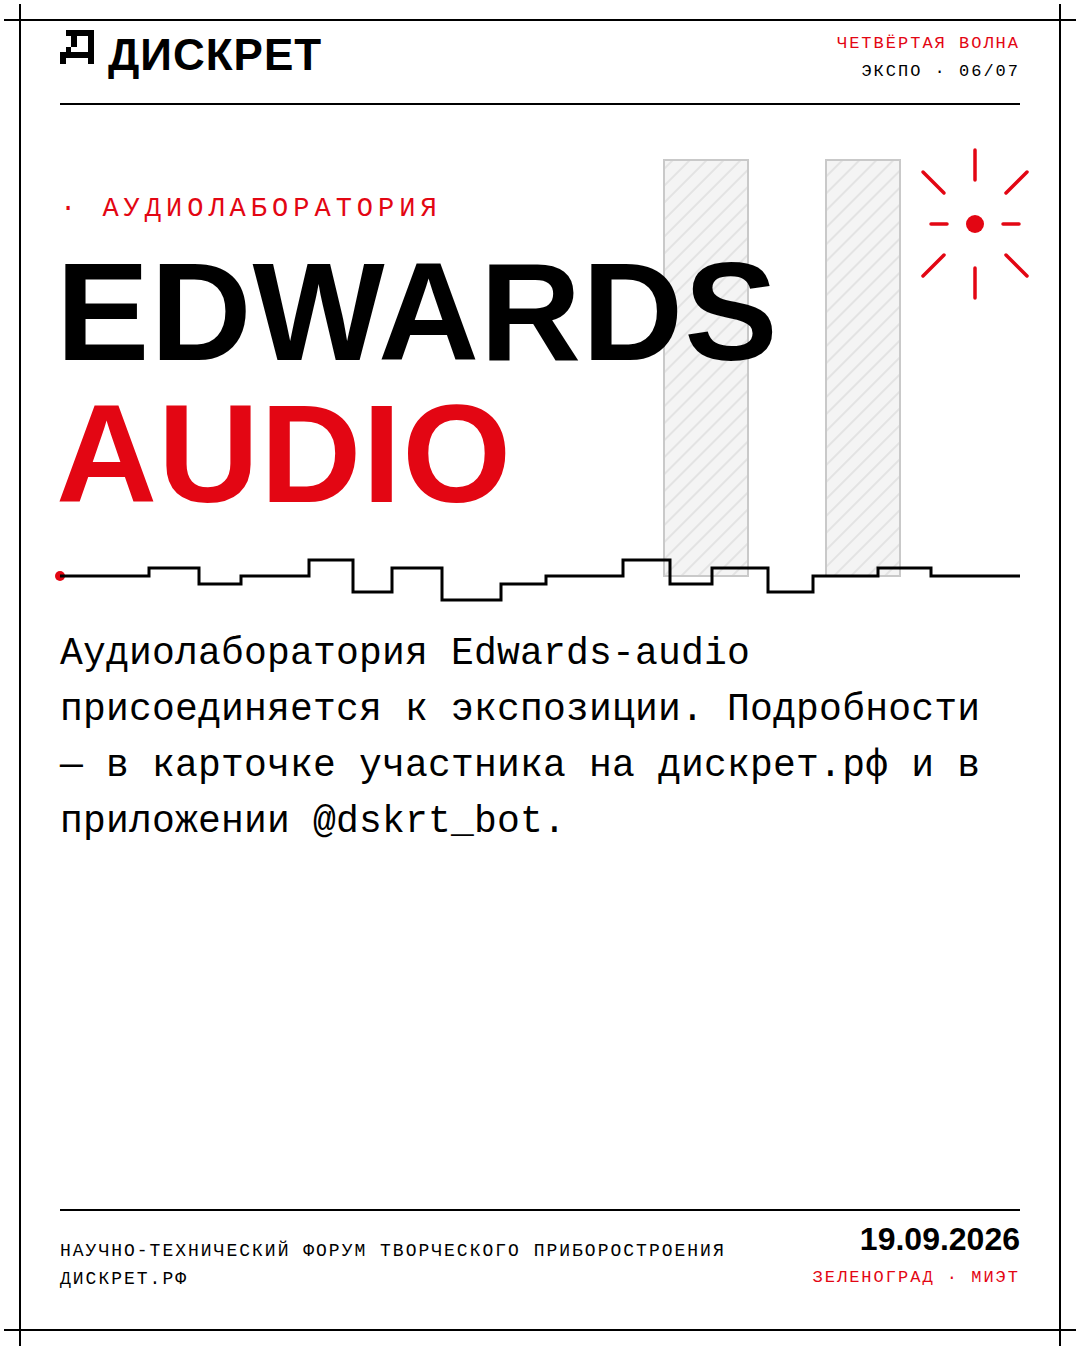
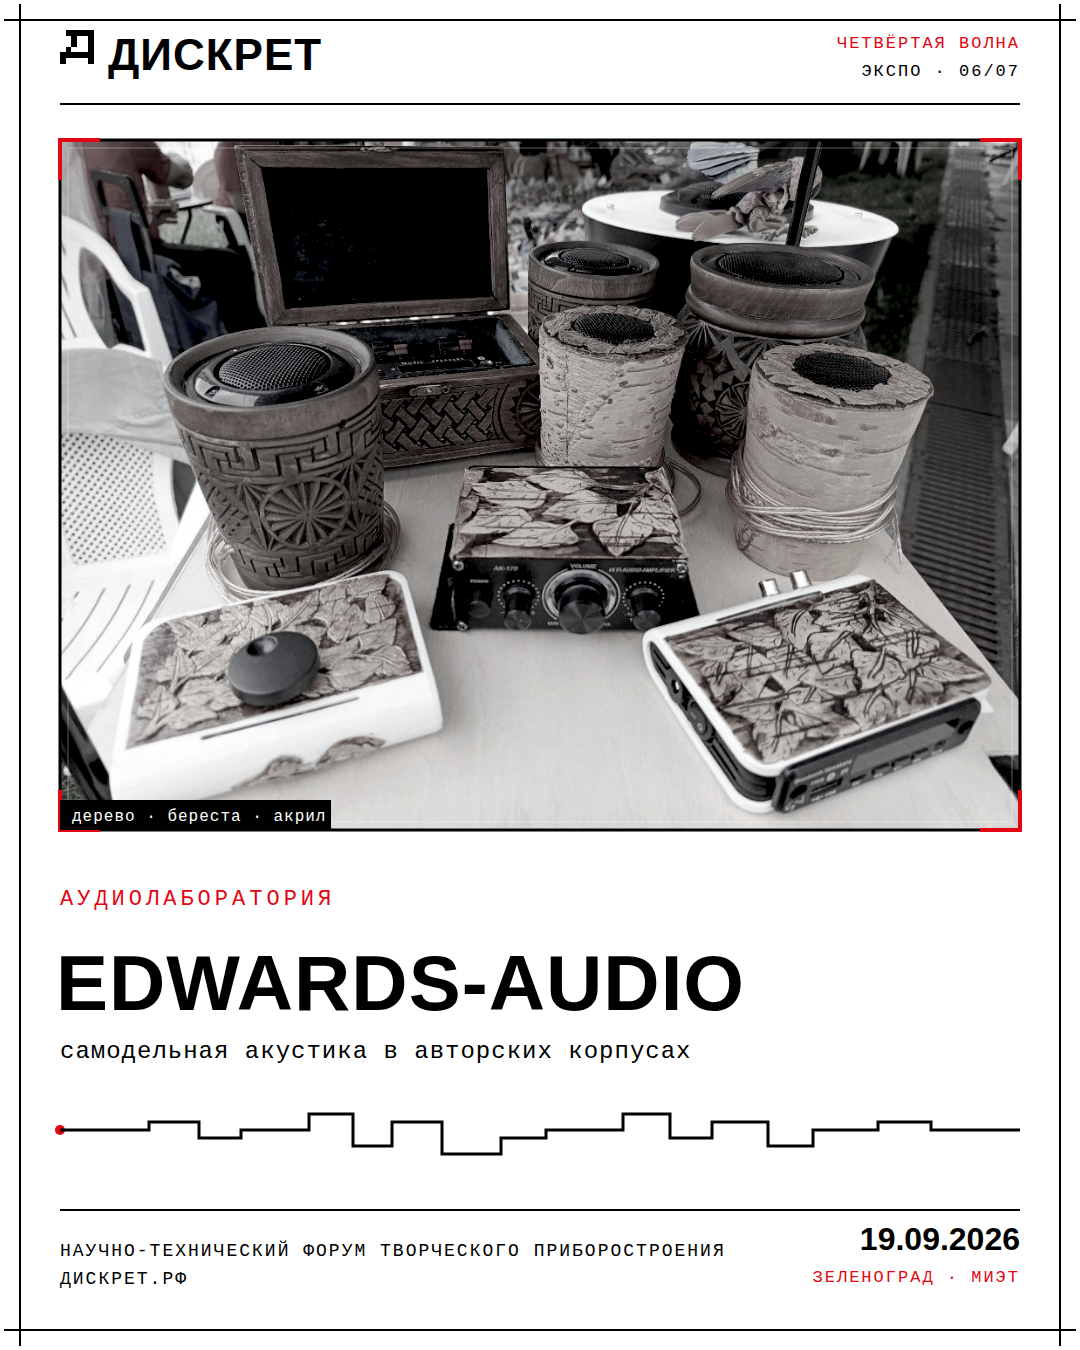
Фото Радиокружка и Edwards-audio
- Зеленоградский радиокружок: 2 фото мастерской в карточке участника
- Edwards-audio: 3 фото самодельной акустики; карточка четвёртой волны
  стала фото-версией (дерево · береста · акрил)

Claude-Session: https://claude.ai/code/session_01J7cakNvVwscKzgnd8yf78u

diff --git a/branding/app/index.html b/branding/app/index.html
@@ -375,7 +375,7 @@
 </div>
 
 <script>
-window.PHOTOS = {"ac1":"photos/ac1.jpg","ac2":"photos/ac2.jpg","alphaseq":"photos/alphaseq.jpg","arch1":"photos/arch1.jpg","arch2":"photos/arch2.jpg","astrovox":"photos/astrovox.jpg","bj":"photos/bj.jpg","bj2":"photos/bj2.jpg","bj3":"photos/bj3.jpg","hgx":"photos/hgx.jpg","hgx2":"photos/hgx2.jpg","hruine1":"photos/hruine1.jpg","laser":"photos/laser.jpg","laser1":"photos/laser1.jpg","laser2":"photos/laser2.jpg","lnlogo":"photos/lnlogo.png","lnreal":"photos/lnreal.png","moub1":"photos/moub1.jpg","para":"photos/para.jpg","para2":"photos/para2.jpg","para3":"photos/para3.jpg","shadow1":"photos/shadow1.jpg","shadow2":"photos/shadow2.jpg","spacekir1":"photos/spacekir1.jpg","sx":"photos/sx.jpg","sx2":"photos/sx2.jpg","sxlab":"photos/sxlab.jpg","tamogni1":"photos/tamogni1.jpg","tiihaya1":"photos/tiihaya1.jpg","tiihaya2":"photos/tiihaya2.jpg","tiihaya3":"photos/tiihaya3.jpg","tw":"photos/tw.jpg","tw2":"photos/tw2.jpg","tw3":"photos/tw3.jpg","tw4":"photos/tw4.jpg","vg":"photos/vg.jpg","vg1":"photos/vg1.jpg","vg2":"photos/vg2.jpg","vg3":"photos/vg3.jpg","kaledoscope":"photos/kaledoscope.jpg","unost":"photos/unost.jpg","faza1":"photos/faza1.jpg","rez1":"photos/rez1.jpg","rez2":"photos/rez2.jpg","rez3":"photos/rez3.jpg","porky1":"photos/porky1.jpg","moon1":"photos/moon1.jpg","prov1":"photos/prov1.jpg","prov2":"photos/prov2.jpg","sl1":"photos/sl1.jpg","sl2":"photos/sl2.jpg","org_novikov":"photos/org_novikov.jpg","org_grigoriev":"photos/org_grigoriev.jpg","org_slutsky":"photos/org_slutsky.jpg","org_boykov":"photos/org_boykov.jpg","tr1":"photos/tr1.jpg","mayak":"photos/mayak.jpg","pribor1":"photos/pribor1.jpg","lg_picaso":"photos/lg_picaso.svg","lg_soyuz":"photos/lg_soyuz.jpg","lg_baklazhania":"photos/lg_baklazhania.svg","lg_efemi":"photos/lg_efemi.svg","lg_angstrem":"photos/lg_angstrem.svg","lg_ioaudio":"photos/lg_ioaudio.svg","lg_flataudio":"photos/lg_flataudio.svg","lg_infoportal":"photos/lg_infoportal.svg","lg_lasernoto":"photos/lg_lasernoto.svg"};
+window.PHOTOS = {"ac1":"photos/ac1.jpg","ac2":"photos/ac2.jpg","alphaseq":"photos/alphaseq.jpg","arch1":"photos/arch1.jpg","arch2":"photos/arch2.jpg","astrovox":"photos/astrovox.jpg","bj":"photos/bj.jpg","bj2":"photos/bj2.jpg","bj3":"photos/bj3.jpg","hgx":"photos/hgx.jpg","hgx2":"photos/hgx2.jpg","hruine1":"photos/hruine1.jpg","laser":"photos/laser.jpg","laser1":"photos/laser1.jpg","laser2":"photos/laser2.jpg","lnlogo":"photos/lnlogo.png","lnreal":"photos/lnreal.png","moub1":"photos/moub1.jpg","para":"photos/para.jpg","para2":"photos/para2.jpg","para3":"photos/para3.jpg","shadow1":"photos/shadow1.jpg","shadow2":"photos/shadow2.jpg","spacekir1":"photos/spacekir1.jpg","sx":"photos/sx.jpg","sx2":"photos/sx2.jpg","sxlab":"photos/sxlab.jpg","tamogni1":"photos/tamogni1.jpg","tiihaya1":"photos/tiihaya1.jpg","tiihaya2":"photos/tiihaya2.jpg","tiihaya3":"photos/tiihaya3.jpg","tw":"photos/tw.jpg","tw2":"photos/tw2.jpg","tw3":"photos/tw3.jpg","tw4":"photos/tw4.jpg","vg":"photos/vg.jpg","vg1":"photos/vg1.jpg","vg2":"photos/vg2.jpg","vg3":"photos/vg3.jpg","kaledoscope":"photos/kaledoscope.jpg","unost":"photos/unost.jpg","kr1":"photos/kr1.jpg","kr2":"photos/kr2.jpg","edw1":"photos/edw1.jpg","edw2":"photos/edw2.jpg","edw3":"photos/edw3.jpg","faza1":"photos/faza1.jpg","rez1":"photos/rez1.jpg","rez2":"photos/rez2.jpg","rez3":"photos/rez3.jpg","porky1":"photos/porky1.jpg","moon1":"photos/moon1.jpg","prov1":"photos/prov1.jpg","prov2":"photos/prov2.jpg","sl1":"photos/sl1.jpg","sl2":"photos/sl2.jpg","org_novikov":"photos/org_novikov.jpg","org_grigoriev":"photos/org_grigoriev.jpg","org_slutsky":"photos/org_slutsky.jpg","org_boykov":"photos/org_boykov.jpg","tr1":"photos/tr1.jpg","mayak":"photos/mayak.jpg","pribor1":"photos/pribor1.jpg","lg_picaso":"photos/lg_picaso.svg","lg_soyuz":"photos/lg_soyuz.jpg","lg_baklazhania":"photos/lg_baklazhania.svg","lg_efemi":"photos/lg_efemi.svg","lg_angstrem":"photos/lg_angstrem.svg","lg_ioaudio":"photos/lg_ioaudio.svg","lg_flataudio":"photos/lg_flataudio.svg","lg_infoportal":"photos/lg_infoportal.svg","lg_lasernoto":"photos/lg_lasernoto.svg"};
 // фото лежат отдельными файлами в photos/ и подгружаются лениво
 const ORG = {
   inst: [
@@ -657,7 +657,7 @@ const C = [
     links:[{t:"КОМПАНИЯ",u:"https://yandex.ru"}],
     desc:"Арт-лаборатория Яндекса «Techno Sound Art». На форуме представит ЯНЕ1 — гибридный синтезатор полностью собственной разработки: схема, дизайн и ПО созданы внутри лаборатории.",
     feat:"Полностью новая разработка лаборатории; пресеты на реальных данных — например, GPS-маршрутах роверов-доставщиков." },
-  { id:"edwards", name:"Edwards-audio", role:"Аудиолаборатория", photos:[], members:[], links:[], desc:"" },
+  { id:"edwards", name:"Edwards-audio", role:"Аудиолаборатория", photos:["edw1","edw2","edw3"], members:[], links:[], desc:"" },
   { id:"faza", name:"ФАЗА Электроника", role:"—", photos:["faza1"], members:[], links:[], desc:"" },
   { id:"rezonans", name:"Резонанс", role:"Электронные музыкальные инструменты", photos:["rez1","rez2","rez3"], members:[], links:[],
     desc:"Resonance-1 — электронный музыкальный инструмент, вдохновляющий на эксперименты и выход за рамки традиционного синтеза звука.\n\nВ основе его работы — генерация резонансов в спектре с помощью фильтров и систем обратной связи, придающих звучанию нелинейный, экспрессивный характер." },
@@ -681,7 +681,7 @@ const C = [
   { id:"uralsintmash", name:"УралСинтМаш", role:"Электромузыкальные объекты · Урал", photos:[], members:[{name:"Степан Гамаюн"}], links:[{t:"TG",u:"https://t.me/gamayun_house"}],
     desc:"Уральский Синтезаторный завод машинной музыки выпускает автономные возобновляемые электромузыкальные изделия — и не только. На форуме представит объекты «Красная шапка» и «Горшочек Света»; возможно, третьим станет автономный модульный синтезатор.",
     feat:"Автономные возобновляемые электромузыкальные изделия; объекты «Красная шапка» и «Горшочек Света»; возможен третий — автономный модульник." },
-  { id:"radiokruzhok", name:"Зеленоградский радиокружок", role:"Аналоговая и цифровая схемотехника · Зеленоград", photos:[], members:[{name:"Каменский Олег Геннадиевич"}], links:[],
+  { id:"radiokruzhok", name:"Зеленоградский радиокружок", role:"Аналоговая и цифровая схемотехника · Зеленоград", photos:["kr1","kr2"], members:[{name:"Каменский Олег Геннадиевич"}], links:[],
     desc:"Зеленоградский радиокружок занимается проектами в аналоговой и цифровой схемотехнике, обучая детей младших и старших классов основам радиотехники и электроники через интересные проекты.",
     feat:"Аналоговая и цифровая схемотехника; обучение школьников младших и старших классов; освоение радиотехники и электроники через живые проекты." },
   { id:"bizarre", name:"Bizarre Jezabel", role:"Бутик модульных синтезаторов · Москва", photos:[], members:["Иван Краснов"],
